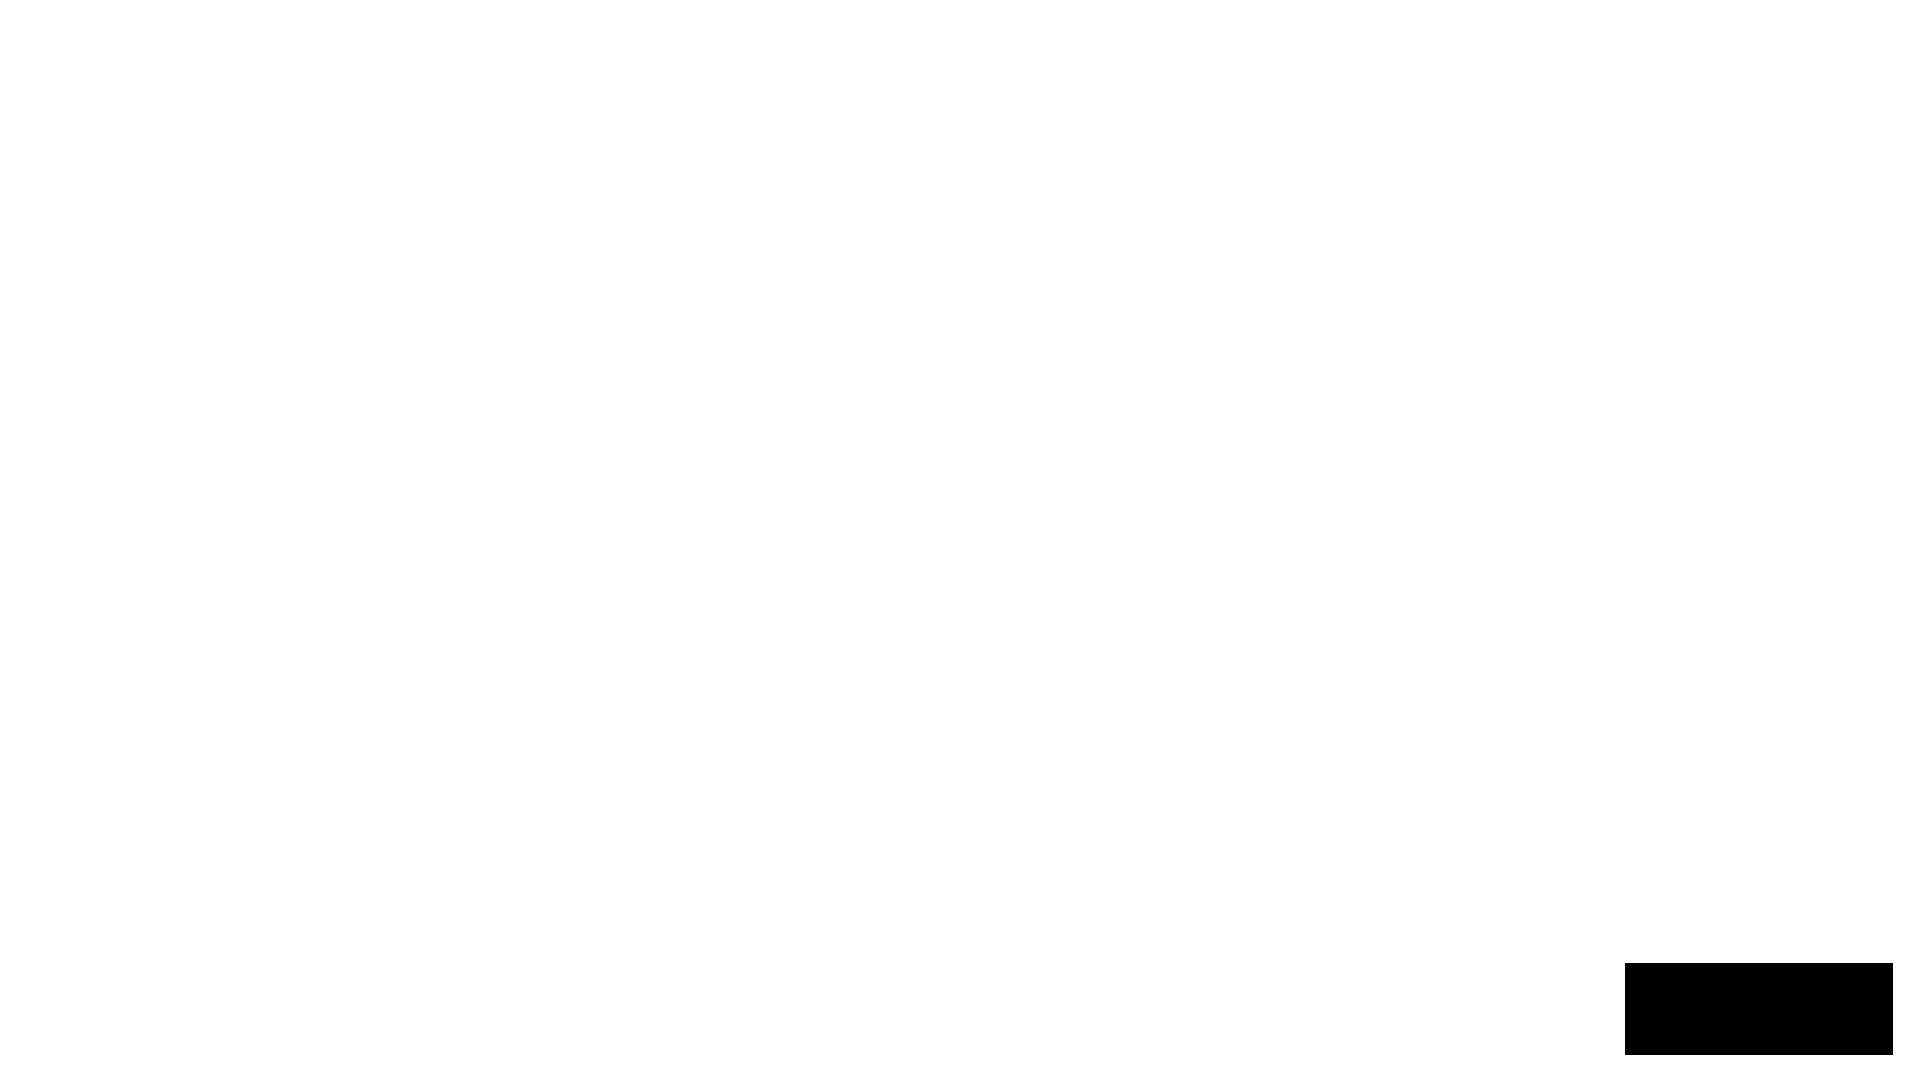
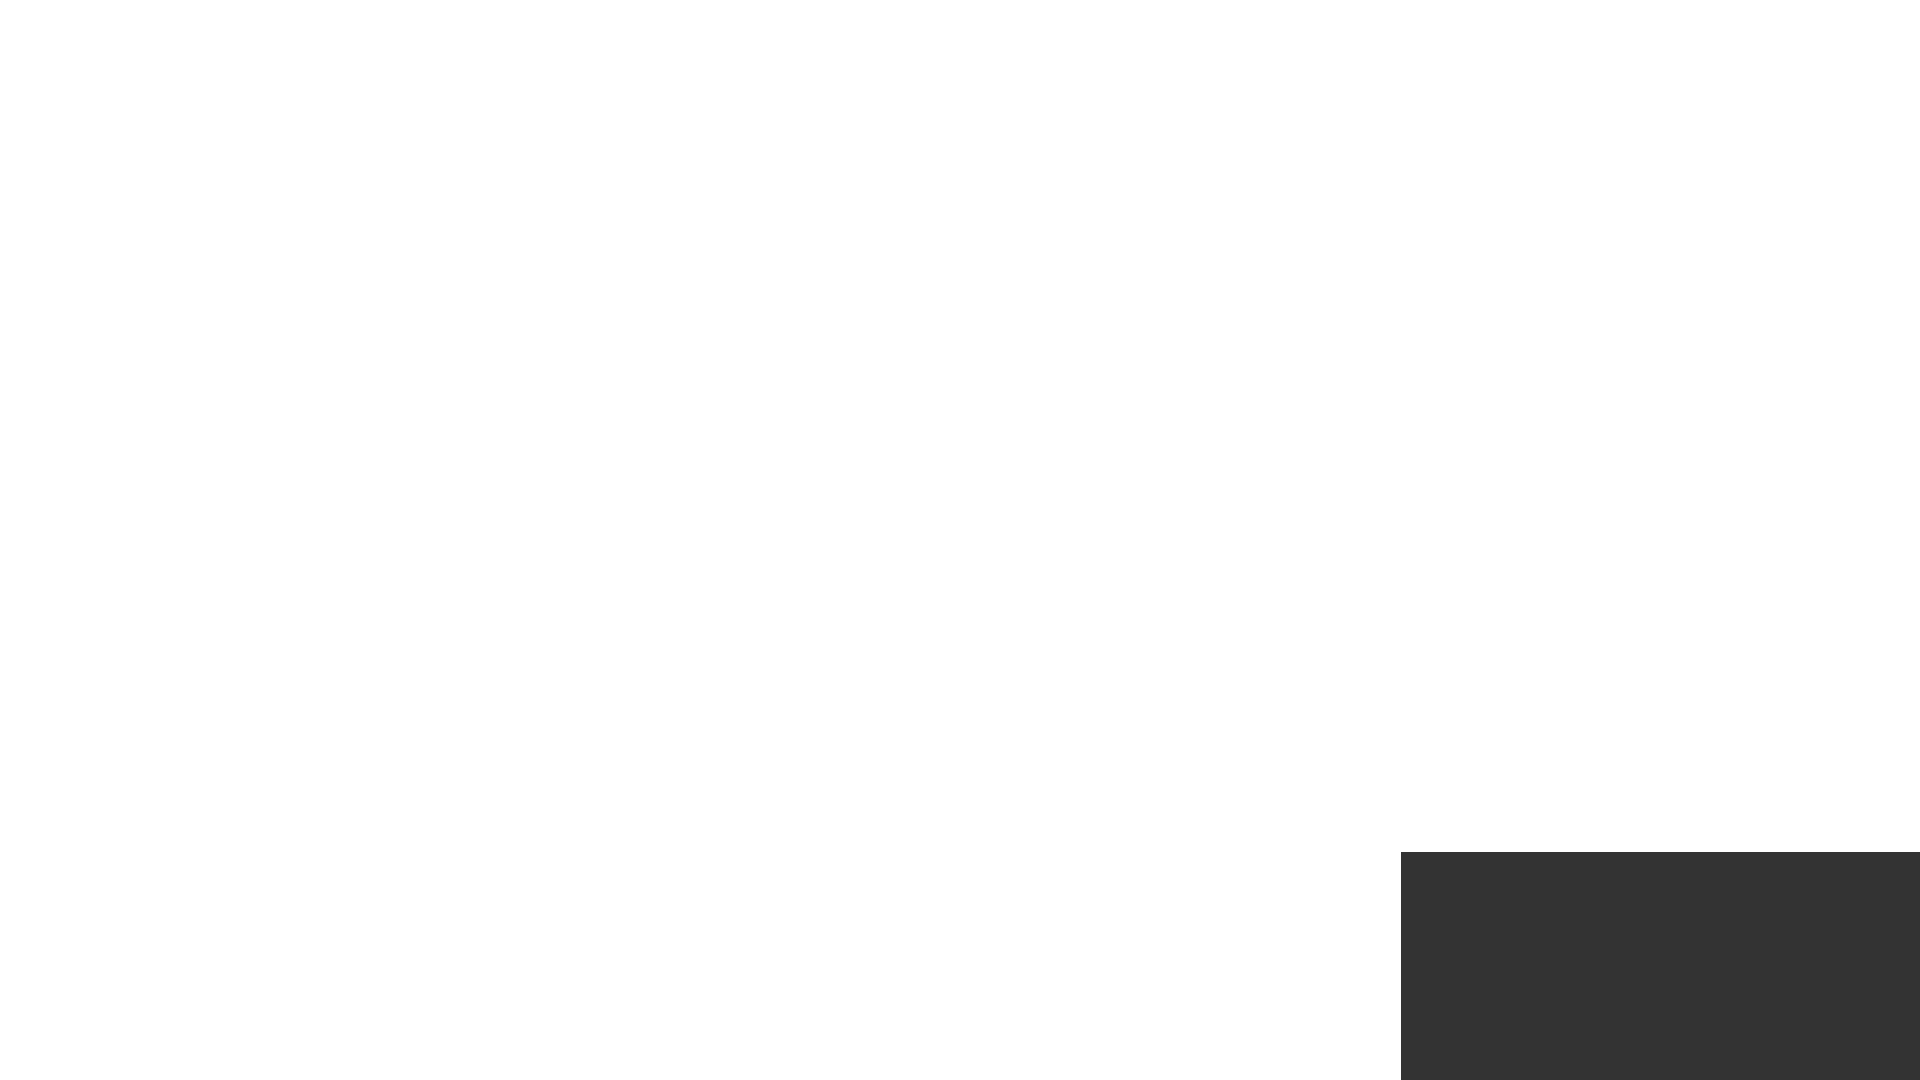
[change]ボタンの操作を一つの関数にまとめる

Changed region(s): [[0.7188, 0.7639, 1.0, 1.0]]

diff --git a/index.html b/index.html
@@ -67,6 +67,7 @@
             <img src="./Images/Youtube_01.png" id="Youtube_Image_1" class="img-fluid ImageCheck" alt="Youtube_btn_1">
             <img src="./Images/Youtube_02.png" id="Youtube_Image_2" class="img-fluid ImageCheck" alt="Youtube_btn_2">
             <img src="./Images/Youtube_03.png" id="Youtube_Image_3" class="img-fluid ImageCheck" alt="Youtube_btn_3">
+            <img src="./Images/Youtube_04.png" id="Youtube_Image_4" class="img-fluid ImageCheck" alt="Youtube_btn_4">
           </div>
 
           <br><br><br>
@@ -90,15 +91,15 @@
             <tr>
               <td>
                 <div class="form-check form-switch align-middle">
-                  <input class="form-check-input" type="checkbox" id="Youtube_btn_1" checked>
-                  <label class="form-check-label" for="Youtube_btn_1">再生時間_1</label>
+                  <input class="form-check-input Youtube_btn" type="checkbox" id="Youtube_btn_1" checked>
+                  <label class="form-check-label" for="Youtube_btn_1">再生時間</label>
                 </div>
               </td>
             </tr>
             <tr>
               <td>
                 <div class="form-check form-switch align-middle">
-                  <input class="form-check-input" type="checkbox" id="Youtube_btn_2" checked>
+                  <input class="form-check-input Youtube_btn" type="checkbox" id="Youtube_btn_2" checked>
                   <label class="form-check-label" for="Youtube_btn_2">再生リスト</label>
                 </div>
               </td>
@@ -106,7 +107,7 @@
             <tr>
               <td>
                 <div class="form-check form-switch align-middle">
-                  <input class="form-check-input" type="checkbox" id="Youtube_btn_3" checked>
+                  <input class="form-check-input Youtube_btn" type="checkbox" id="Youtube_btn_3" checked>
                   <label class="form-check-label" for="Youtube_btn_3">ライブ</label>
                 </div>
               </td>
@@ -114,8 +115,8 @@
             <tr>
               <td>
                 <div class="form-check form-switch align-middle">
-                  <input class="form-check-input" type="checkbox" id="Youtube_btn_4">
-                  <label class="form-check-label" for="Youtube_btn_4"></label>
+                  <input class="form-check-input Youtube_btn" type="checkbox" id="Youtube_btn_4" checked>
+                  <label class="form-check-label" for="Youtube_btn_4">外枠</label>
                 </div>
               </td>
             </tr>
@@ -152,15 +153,34 @@
   });
 
   // チェックボックス
-  $('#Youtube_btn_3').on('input', function() {
+  $('.Youtube_btn').on('input', function() {
+
+    // 表示非表示するセレクタ
+    var ImageSelector;
+
+    // チェックボックスから画像のIDを決める
+    switch ($(this).attr("id")) {
+      case "Youtube_btn_1":
+        ImageSelector = $('#Youtube_Image_1');
+        break;
+      case "Youtube_btn_2":
+        ImageSelector = $('#Youtube_Image_2');
+        break;
+      case "Youtube_btn_3":
+        ImageSelector = $('#Youtube_Image_3');
+        break;
+      case "Youtube_btn_4":
+        ImageSelector = $('#Youtube_Image_4');
+        break;
+    }
 
     if ($(this).prop("checked")){
       console.log($(this)+"");
 
-      $('#Youtube_Image_3').css({'visibility':'visible'});
+      ImageSelector.css({'visibility':'visible'});
     }
     else{
-      $('#Youtube_Image_3').css({'visibility':'hidden'});
+      ImageSelector.css({'visibility':'hidden'});
     }
   });
 
